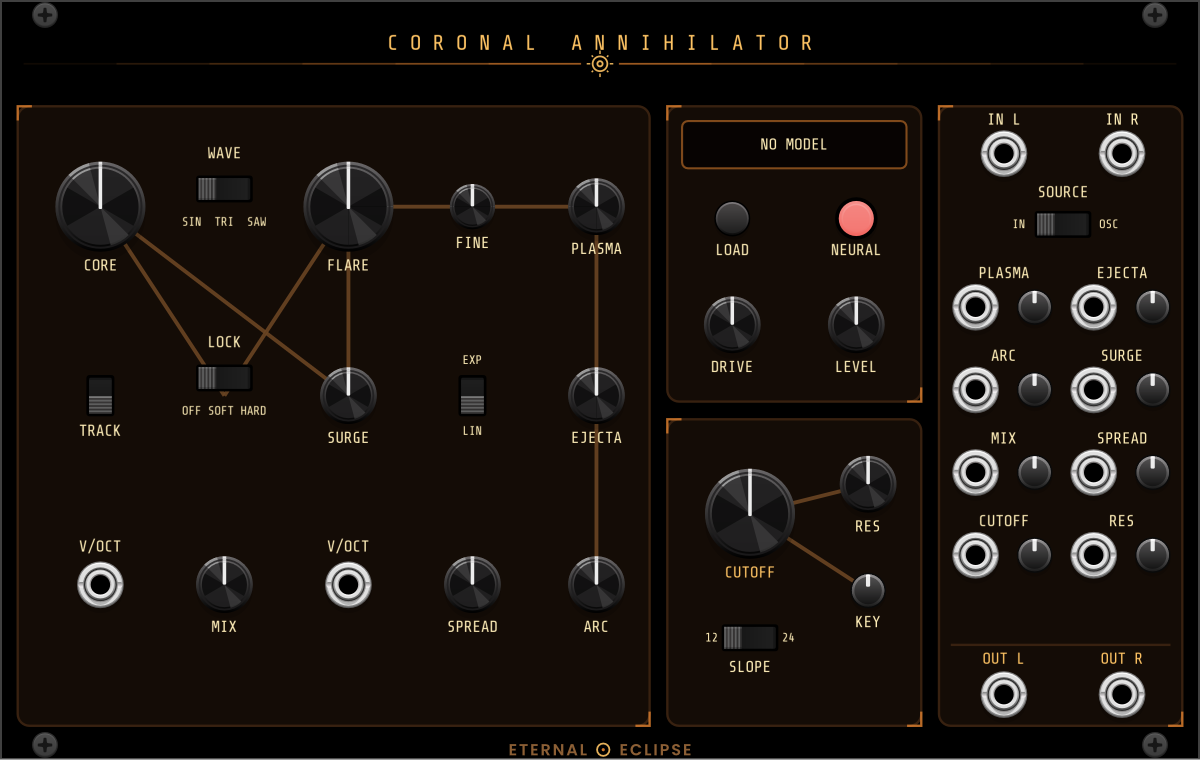
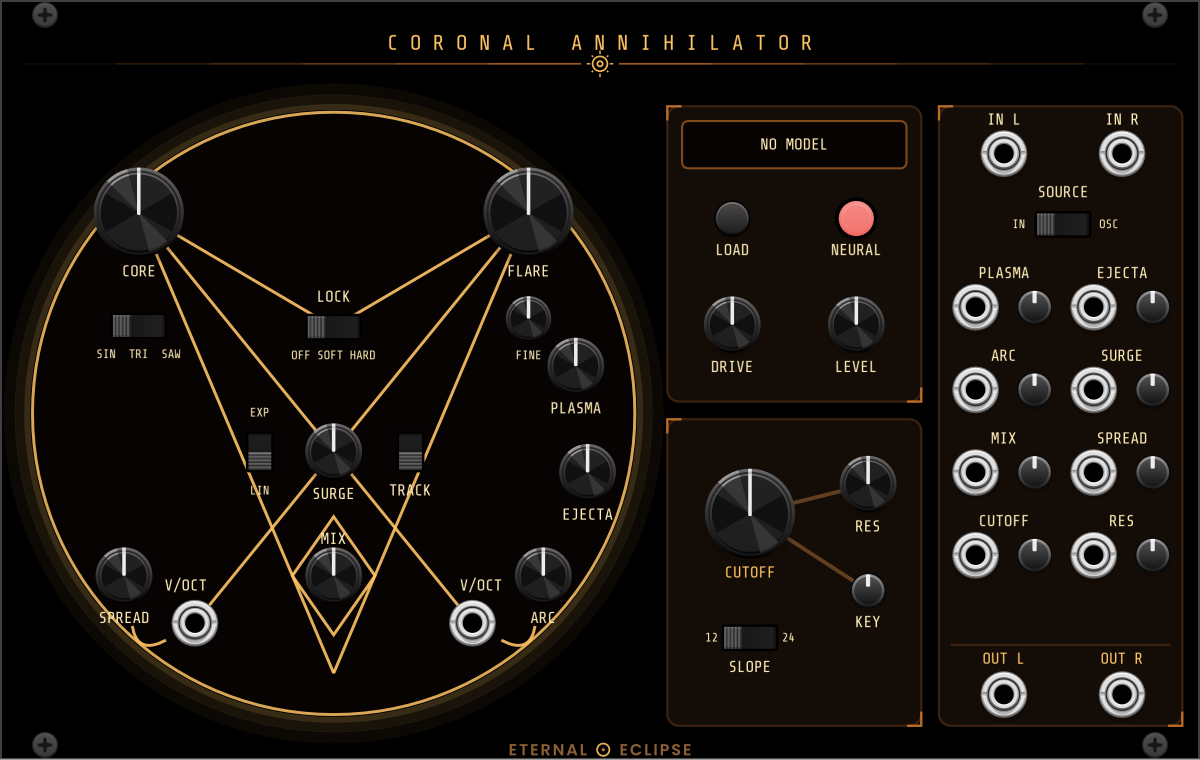
Coronal Annihilator: eclipse-disc panel with sigil layout (OMN-87)
Oscillator frame removed; the zone is now a total eclipse (occluded
disc, stepped corona glow) with the sigil of the Lightbringer drawn
across it. Controls sit on the sigil's nodes: CORE/FLARE on the top
points, LOCK on the chevron vertex, SURGE at the arm crossing flanked
by LIN/EXP and TRACK, MIX in the nested diamond, V/oct jacks on the
tail hooks; PLASMA/EJECTA/ARC descend the right rim, SPREAD mirrors
left. Docs screenshot refreshed.

Changed region(s): [[0.0, 0.1211, 0.555, 0.9684], [0.0617, 0.4842, 0.0925, 0.575], [0.3392, 0.4237, 0.37, 0.4539]]

diff --git a/src/CoronalAnnihilator/CoronalAnnihilator.cpp b/src/CoronalAnnihilator/CoronalAnnihilator.cpp
@@ -431,9 +431,10 @@ struct LoadButton : VCVButton {
 };
 
 struct CoronalAnnihilatorWidget : ModuleWidget {
-	// Oscillator frame columns and rows
-	static constexpr float C1 = 17.f, C2 = 38.f, C3 = 59.f, C4 = 80.f, C5 = 101.f;
-	static constexpr float ROW1 = 35.f, ROW2 = 67.f, ROW3 = 99.f;
+	// Sigil anchor nodes inside the eclipse disc (disc center 56.5,70 r=51
+	// in the panel SVG): top points, vertical axis
+	static constexpr float SIG_LX = 23.5f, SIG_RX = 89.5f, SIG_TY = 36.f;
+	static constexpr float SIG_CX = 56.5f;
 	// Neural / Umbra column
 	static constexpr float NX_L = 124.f, NX_R = 145.f;
 	// Patch bay column centers and jack/attenuverter pair offsets
@@ -461,45 +462,48 @@ struct CoronalAnnihilatorWidget : ModuleWidget {
 
 		eclipse::addHeader(this, 101.6f, "C O R O N A L   A N N I H I L A T O R");
 
-		// ===== Oscillators =====
-		// Row 1: pitch and shape
-		addParam(createParamCentered<RoundBigBlackKnob>(mm2px(Vec(C1, ROW1)), module, CoronalAnnihilator::CORE_PITCH_PARAM));
-		addLabel(Vec(C1, ROW1 + 10.f), "CORE");
-		addLabel(Vec(C2, ROW1 - 9.f), "WAVE");
-		addParam(createParamCentered<CKSSThreeHorizontal>(mm2px(Vec(C2, ROW1 - 3.f)), module, CoronalAnnihilator::CORE_WAVE_PARAM));
-		addLabel(Vec(C2, ROW1 + 2.6f), "SIN  TRI  SAW", eclipse::FINE_SIZE);
-		addParam(createParamCentered<RoundBigBlackKnob>(mm2px(Vec(C3, ROW1)), module, CoronalAnnihilator::FLARE_PITCH_PARAM));
-		addLabel(Vec(C3, ROW1 + 10.f), "FLARE");
-		addParam(createParamCentered<RoundSmallBlackKnob>(mm2px(Vec(C4, ROW1)), module, CoronalAnnihilator::FLARE_FINE_PARAM));
-		addLabel(Vec(C4, ROW1 + 6.2f), "FINE");
-		addParam(createParamCentered<RoundBlackKnob>(mm2px(Vec(C5, ROW1)), module, CoronalAnnihilator::PLASMA_PARAM));
-		addLabel(Vec(C5, ROW1 + 7.2f), "PLASMA");
+		// ===== Oscillators: the sigil inside the eclipse disc =====
+		// Controls sit on the sigil's nodes (geometry mirrored in the panel
+		// SVG): CORE and FLARE on the two top points, LOCK on the chevron
+		// vertex, SURGE at the crossing of the two arms flanked by its
+		// LIN/EXP mode and TRACK (every CORE -> FLARE coupling lives where
+		// the lines cross), MIX inside the diamond, V/oct jacks on the tail
+		// hooks. FLARE's shapers descend the right rim of the disc; SPREAD
+		// mirrors them on the left.
+		addParam(createParamCentered<RoundBigBlackKnob>(mm2px(Vec(SIG_LX, SIG_TY)), module, CoronalAnnihilator::CORE_PITCH_PARAM));
+		addLabel(Vec(SIG_LX, SIG_TY + 10.f), "CORE");
+		addParam(createParamCentered<CKSSThreeHorizontal>(mm2px(Vec(SIG_LX, 55.2f)), module, CoronalAnnihilator::CORE_WAVE_PARAM));
+		addLabel(Vec(SIG_LX, 60.f), "SIN  TRI  SAW", eclipse::FINE_SIZE);
+		addParam(createParamCentered<RoundBigBlackKnob>(mm2px(Vec(SIG_RX, SIG_TY)), module, CoronalAnnihilator::FLARE_PITCH_PARAM));
+		addLabel(Vec(SIG_RX, SIG_TY + 10.f), "FLARE");
+		addParam(createParamCentered<RoundSmallBlackKnob>(mm2px(Vec(SIG_RX, 54.f)), module, CoronalAnnihilator::FLARE_FINE_PARAM));
+		addLabel(Vec(SIG_RX, 60.2f), "FINE", eclipse::FINE_SIZE);
 
-		// Row 2: the Core -> Flare relationship
-		addParam(createParamCentered<CKSS>(mm2px(Vec(C1, ROW2)), module, CoronalAnnihilator::TRACK_PARAM));
-		addLabel(Vec(C1, ROW2 + 6.f), "TRACK");
-		addLabel(Vec(C2, ROW2 - 9.f), "LOCK");
-		addParam(createParamCentered<CKSSThreeHorizontal>(mm2px(Vec(C2, ROW2 - 3.f)), module, CoronalAnnihilator::LOCK_PARAM));
-		addLabel(Vec(C2, ROW2 + 2.6f), "OFF SOFT HARD", eclipse::FINE_SIZE);
-		addParam(createParamCentered<RoundBlackKnob>(mm2px(Vec(C3, ROW2)), module, CoronalAnnihilator::SURGE_PARAM));
-		addLabel(Vec(C3, ROW2 + 7.2f), "SURGE");
-		addLabel(Vec(C4, ROW2 - 6.f), "EXP", eclipse::FINE_SIZE);
-		addParam(createParamCentered<CKSS>(mm2px(Vec(C4, ROW2)), module, CoronalAnnihilator::FM_MODE_PARAM));
-		addLabel(Vec(C4, ROW2 + 6.f), "LIN", eclipse::FINE_SIZE);
-		addParam(createParamCentered<RoundBlackKnob>(mm2px(Vec(C5, ROW2)), module, CoronalAnnihilator::EJECTA_PARAM));
-		addLabel(Vec(C5, ROW2 + 7.2f), "EJECTA");
+		addLabel(Vec(SIG_CX, 50.3f), "LOCK");
+		addParam(createParamCentered<CKSSThreeHorizontal>(mm2px(Vec(SIG_CX, 55.4f)), module, CoronalAnnihilator::LOCK_PARAM));
+		addLabel(Vec(SIG_CX, 60.2f), "OFF SOFT HARD", eclipse::FINE_SIZE);
+		addParam(createParamCentered<RoundBlackKnob>(mm2px(Vec(SIG_CX, 76.5f)), module, CoronalAnnihilator::SURGE_PARAM));
+		addLabel(Vec(SIG_CX, 83.7f), "SURGE");
+		addLabel(Vec(44.f, 69.9f), "EXP", eclipse::FINE_SIZE);
+		addParam(createParamCentered<CKSS>(mm2px(Vec(44.f, 76.5f)), module, CoronalAnnihilator::FM_MODE_PARAM));
+		addLabel(Vec(44.f, 83.1f), "LIN", eclipse::FINE_SIZE);
+		addParam(createParamCentered<CKSS>(mm2px(Vec(69.5f, 76.5f)), module, CoronalAnnihilator::TRACK_PARAM));
+		addLabel(Vec(69.5f, 83.1f), "TRACK");
 
-		// Row 3: pitch CV under the pitch knobs, mix/spread/arc
-		addLabel(Vec(C1, ROW3 - 6.4f), "V/OCT");
-		addInput(createInputCentered<PJ301MPort>(mm2px(Vec(C1, ROW3)), module, CoronalAnnihilator::CORE_VOCT_INPUT));
-		addParam(createParamCentered<RoundBlackKnob>(mm2px(Vec(C2, ROW3)), module, CoronalAnnihilator::MIX_PARAM));
-		addLabel(Vec(C2, ROW3 + 7.2f), "MIX");
-		addLabel(Vec(C3, ROW3 - 6.4f), "V/OCT");
-		addInput(createInputCentered<PJ301MPort>(mm2px(Vec(C3, ROW3)), module, CoronalAnnihilator::FLARE_VOCT_INPUT));
-		addParam(createParamCentered<RoundBlackKnob>(mm2px(Vec(C4, ROW3)), module, CoronalAnnihilator::SPREAD_PARAM));
-		addLabel(Vec(C4, ROW3 + 7.2f), "SPREAD");
-		addParam(createParamCentered<RoundBlackKnob>(mm2px(Vec(C5, ROW3)), module, CoronalAnnihilator::ARC_PARAM));
-		addLabel(Vec(C5, ROW3 + 7.2f), "ARC");
+		addParam(createParamCentered<RoundBlackKnob>(mm2px(Vec(SIG_CX, 97.5f)), module, CoronalAnnihilator::MIX_PARAM));
+		addLabel(Vec(SIG_CX, 91.3f), "MIX");
+		addParam(createParamCentered<RoundBlackKnob>(mm2px(Vec(97.5f, 62.f)), module, CoronalAnnihilator::PLASMA_PARAM));
+		addLabel(Vec(97.5f, 69.2f), "PLASMA");
+		addParam(createParamCentered<RoundBlackKnob>(mm2px(Vec(99.5f, 80.f)), module, CoronalAnnihilator::EJECTA_PARAM));
+		addLabel(Vec(99.5f, 87.2f), "EJECTA");
+		addParam(createParamCentered<RoundBlackKnob>(mm2px(Vec(92.f, 97.5f)), module, CoronalAnnihilator::ARC_PARAM));
+		addLabel(Vec(92.f, 104.7f), "ARC");
+		addParam(createParamCentered<RoundBlackKnob>(mm2px(Vec(21.f, 97.5f)), module, CoronalAnnihilator::SPREAD_PARAM));
+		addLabel(Vec(21.f, 104.7f), "SPREAD");
+		addLabel(Vec(31.5f, 99.2f), "V/OCT");
+		addInput(createInputCentered<PJ301MPort>(mm2px(Vec(33.f, 105.5f)), module, CoronalAnnihilator::CORE_VOCT_INPUT));
+		addLabel(Vec(81.5f, 99.2f), "V/OCT");
+		addInput(createInputCentered<PJ301MPort>(mm2px(Vec(80.f, 105.5f)), module, CoronalAnnihilator::FLARE_VOCT_INPUT));
 
 		// ===== Neural =====
 		NamModelDisplay* display = new NamModelDisplay;
